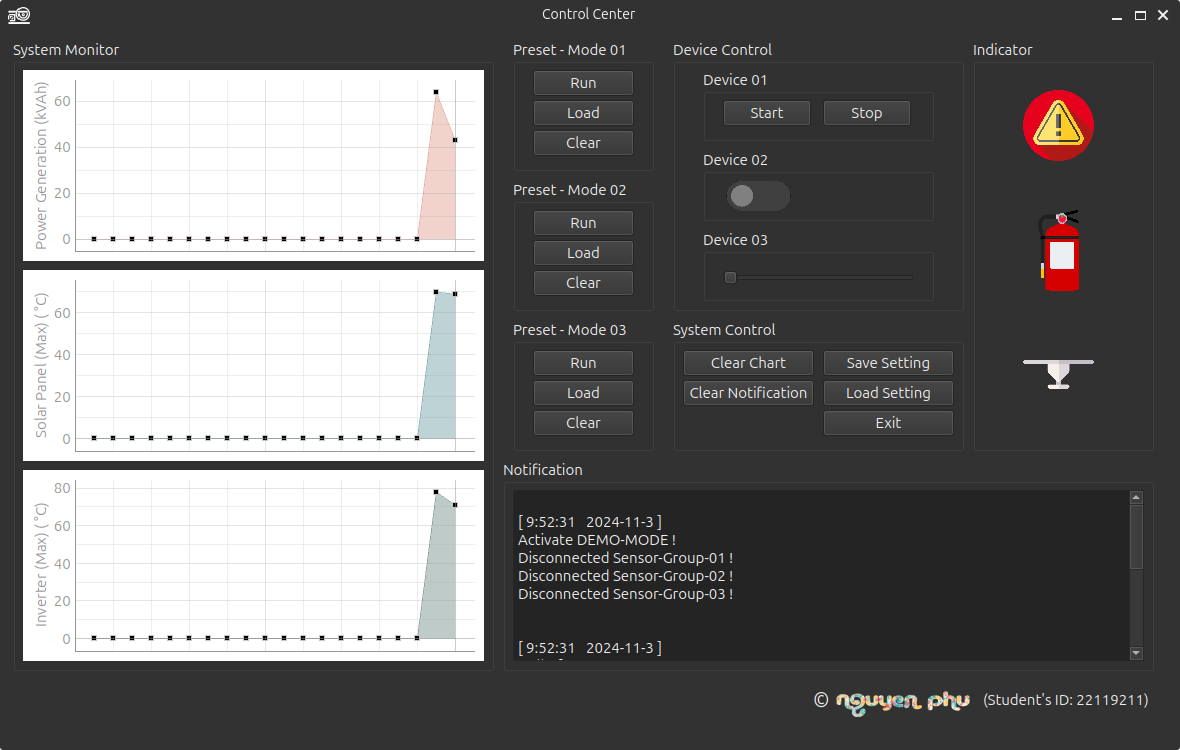
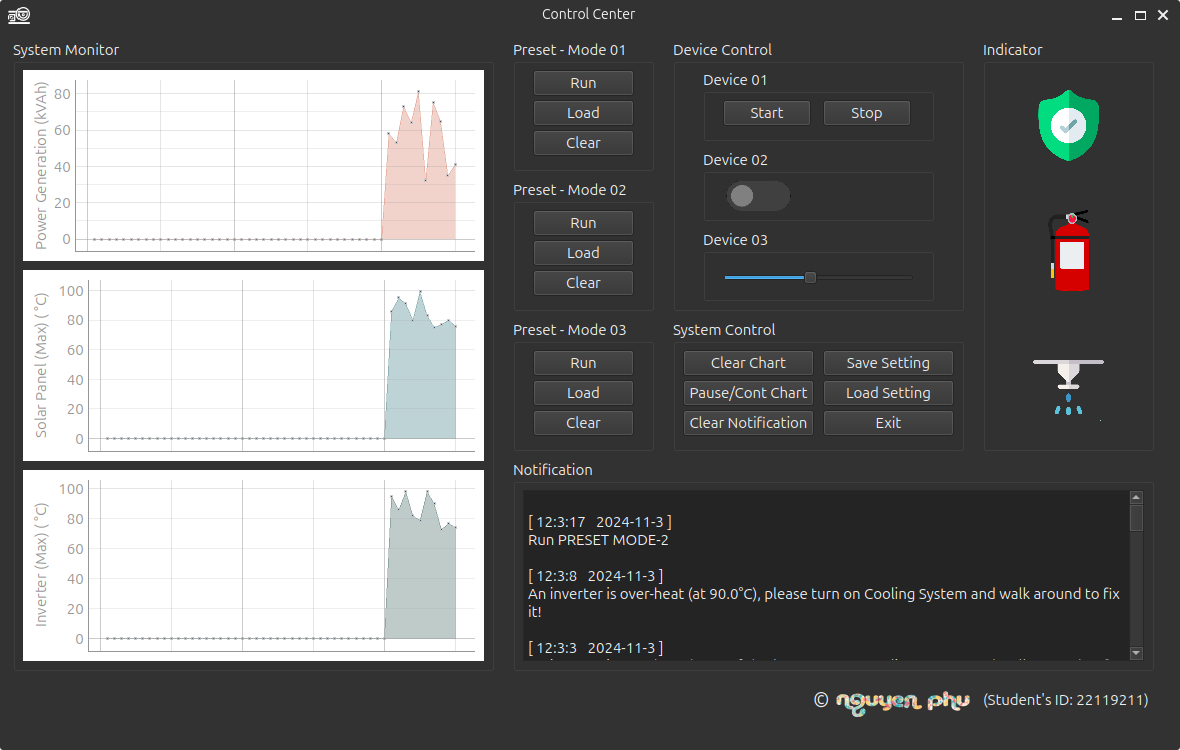
update demo.png + add pause/cont. chart

diff --git a/ControlCenter/resources/components/Ui_ControlCenter.py b/ControlCenter/resources/components/Ui_ControlCenter.py
@@ -29,10 +29,10 @@ class Ui_MainWindow(object):
         self.Clear_3.setGeometry(QtCore.QRect(20, 90, 101, 26))
         self.Clear_3.setObjectName("Clear_3")
         self.Notification_1 = QtWidgets.QGroupBox(parent=MainWindow)
-        self.Notification_1.setGeometry(QtCore.QRect(500, 430, 651, 211))
+        self.Notification_1.setGeometry(QtCore.QRect(510, 430, 641, 211))
         self.Notification_1.setObjectName("Notification_1")
         self.Notification = QtWidgets.QTextBrowser(parent=self.Notification_1)
-        self.Notification.setGeometry(QtCore.QRect(10, 30, 631, 171))
+        self.Notification.setGeometry(QtCore.QRect(10, 30, 621, 171))
         self.Notification.setObjectName("Notification")
         self.MonitorGroup_1 = QtWidgets.QGroupBox(parent=MainWindow)
         self.MonitorGroup_1.setGeometry(QtCore.QRect(10, 10, 481, 631))
@@ -90,7 +90,7 @@ class Ui_MainWindow(object):
         self.Dev3_Slider_1.setOrientation(QtCore.Qt.Orientation.Horizontal)
         self.Dev3_Slider_1.setObjectName("Dev3_Slider_1")
         self.Indicator_1 = QtWidgets.QGroupBox(parent=MainWindow)
-        self.Indicator_1.setGeometry(QtCore.QRect(970, 10, 181, 411))
+        self.Indicator_1.setGeometry(QtCore.QRect(980, 10, 171, 411))
         self.Indicator_1.setObjectName("Indicator_1")
         self.IndicatorDev_1 = QtWidgets.QLabel(parent=self.Indicator_1)
         self.IndicatorDev_1.setGeometry(QtCore.QRect(50, 50, 71, 71))
@@ -116,9 +116,6 @@ class Ui_MainWindow(object):
         self.Save_Setting_1 = QtWidgets.QPushButton(parent=self.SystemControl_1)
         self.Save_Setting_1.setGeometry(QtCore.QRect(150, 30, 131, 26))
         self.Save_Setting_1.setObjectName("Save_Setting_1")
-        self.Clear_Notification_1 = QtWidgets.QPushButton(parent=self.SystemControl_1)
-        self.Clear_Notification_1.setGeometry(QtCore.QRect(10, 60, 131, 26))
-        self.Clear_Notification_1.setObjectName("Clear_Notification_1")
         self.Load_Setting_1 = QtWidgets.QPushButton(parent=self.SystemControl_1)
         self.Load_Setting_1.setGeometry(QtCore.QRect(150, 60, 131, 26))
         self.Load_Setting_1.setObjectName("Load_Setting_1")
@@ -128,6 +125,12 @@ class Ui_MainWindow(object):
         self.Clear_Chart_2 = QtWidgets.QPushButton(parent=self.SystemControl_1)
         self.Clear_Chart_2.setGeometry(QtCore.QRect(10, 30, 131, 26))
         self.Clear_Chart_2.setObjectName("Clear_Chart_2")
+        self.Pause_Chart_1 = QtWidgets.QPushButton(parent=self.SystemControl_1)
+        self.Pause_Chart_1.setGeometry(QtCore.QRect(10, 60, 131, 26))
+        self.Pause_Chart_1.setObjectName("Pause_Chart_1")
+        self.Clear_Notification_1 = QtWidgets.QPushButton(parent=self.SystemControl_1)
+        self.Clear_Notification_1.setGeometry(QtCore.QRect(10, 90, 131, 26))
+        self.Clear_Notification_1.setObjectName("Clear_Notification_1")
         self.PresetMode_2 = QtWidgets.QGroupBox(parent=MainWindow)
         self.PresetMode_2.setGeometry(QtCore.QRect(510, 150, 141, 131))
         self.PresetMode_2.setObjectName("PresetMode_2")
@@ -179,10 +182,11 @@ class Ui_MainWindow(object):
         self.Indicator_1.setTitle(_translate("MainWindow", "Indicator"))
         self.SystemControl_1.setTitle(_translate("MainWindow", "System Control"))
         self.Save_Setting_1.setText(_translate("MainWindow", "Save Setting"))
-        self.Clear_Notification_1.setText(_translate("MainWindow", "Clear Notification"))
         self.Load_Setting_1.setText(_translate("MainWindow", "Load Setting"))
         self.Exit_1.setText(_translate("MainWindow", "Exit"))
         self.Clear_Chart_2.setText(_translate("MainWindow", "Clear Chart"))
+        self.Pause_Chart_1.setText(_translate("MainWindow", "Pause/Cont Chart"))
+        self.Clear_Notification_1.setText(_translate("MainWindow", "Clear Notification"))
         self.PresetMode_2.setTitle(_translate("MainWindow", "Preset - Mode 02"))
         self.Run_2.setText(_translate("MainWindow", "Run"))
         self.Load_2.setText(_translate("MainWindow", "Load"))

diff --git a/ControlCenter/ControlCenter.py b/ControlCenter/ControlCenter.py
@@ -22,7 +22,8 @@ class ControlCenter(QMainWindow):
         self.ui = Ui_MainWindow()
         self.ui.setupUi(self)
         # Global variables
-        self.Notification_Buffer_Size=10000 #Chars
+        self.Pause_Chart=0
+        self.Notification_Buffer_Size=100000 #Chars
         self.Chart_Update="PAUSE"
         self.Preset_Mode_1={"Dev1":"ON", "Dev2":"OFF", "Dev3":"HALF"}
         self.Preset_Mode_2={"Dev1":"ON", "Dev2":"ON", "Dev3":"FULL"}
@@ -31,7 +32,7 @@ class ControlCenter(QMainWindow):
         self.Dev1_Ctl=0 # only 1 or 0
         self.Dev2_Ctl=0 # only 1 or 0
         self.Dev3_Ctl=0 # in range [0->100]
-        self.Chart_Len=20
+        self.Chart_Len=50
         self.Chart_XAxis_Data=range(1, self.Chart_Len+1)
         self.Chart_Data_1=np.zeros(self.Chart_Len)
         self.Chart_Data_2=np.zeros(self.Chart_Len)
@@ -72,6 +73,7 @@ class ControlCenter(QMainWindow):
         self.ui.Load_3.clicked.connect(self.Reserve_Features)
         self.ui.Save_Setting_1.clicked.connect(self.Reserve_Features)
         self.ui.Load_Setting_1.clicked.connect(self.Reserve_Features)
+        self.ui.Pause_Chart_1.clicked.connect(self.Toggle_Pause_Chart_State)
         #Update chart
         self.Start_Chart()
         # Hello 
@@ -88,7 +90,7 @@ class ControlCenter(QMainWindow):
             if Color is not None:
                 pen = pg.mkPen(color=Color)
                 plot.plot(self.Chart_XAxis_Data, YValues, pen=pen, 
-                            symbol="s", symbolSize=5, symbolBrush='k',
+                            symbol="s", symbolSize=2, symbolBrush=(56, 75, 112),
                             fillLevel=-0.3, brush=Color)
             else:
                 plot.plot(self.Chart_XAxis_Data, YValues)
@@ -265,6 +267,17 @@ class ControlCenter(QMainWindow):
 
     def Set_overheat_warning_chart_3(self):
         self.New_Notification(f"An inverter is over-heat (at {self.Chart_Data_3[-1]}°C), please turn on Cooling System and walk around to fix it!")
+
+    def Toggle_Pause_Chart_State(self):
+        if self.Pause_Chart == 1:
+            self.New_Notification("Continue Updating All Charts!")
+            self.Pause_Chart = 0
+            self.Load_Chart_1()
+            self.Load_Chart_2()
+            self.Load_Chart_3()
+        else:
+            self.New_Notification("Pause Updating All Charts!")
+            self.Pause_Chart = 1
 
     def Reserve_Features(self):
         self.New_Notification("Reserve feature!")

diff --git a/ControlCenter/resources/components/support_functions.py b/ControlCenter/resources/components/support_functions.py
@@ -22,19 +22,22 @@ class UpdateSensor_ClassWorker(QObject):
         data = np.append(self.myapp.Chart_Data_1[1:], randint(30, 82)*1000)
         self.myapp.Chart_Data_1 = data
         #------------------------------------#
-        self.update_chart_1.emit()
+        if self.myapp.Pause_Chart == 0:
+            self.update_chart_1.emit()
 
     def Update_Sensor_2(self):
         data = randint(68, 100)
         self.myapp.Chart_Data_2 = np.append(self.myapp.Chart_Data_2[1:], data)
         #------------------------------------#
-        self.update_chart_2.emit()
+        if self.myapp.Pause_Chart == 0:
+            self.update_chart_2.emit()
 
     def Update_Sensor_3(self):
         data = randint(68, 100)
         self.myapp.Chart_Data_3 = np.append(self.myapp.Chart_Data_3[1:], data)
         #------------------------------------#
-        self.update_chart_3.emit()
+        if self.myapp.Pause_Chart == 0:
+            self.update_chart_3.emit()
 
 
     def UpdateData(self):
@@ -42,9 +45,10 @@ class UpdateSensor_ClassWorker(QObject):
             self.Update_Sensor_1()
             self.Update_Sensor_2()
             self.Update_Sensor_3()
-            if self.myapp.Chart_Data_2[-1] > 85:
-                self.overheat_warning_chart_2.emit()
-            if self.myapp.Chart_Data_3[-1] > 85:
-                self.overheat_warning_chart_3.emit()
+            if self.myapp.Pause_Chart == 0:
+                if self.myapp.Chart_Data_2[-1] > 85:
+                    self.overheat_warning_chart_2.emit()
+                if self.myapp.Chart_Data_3[-1] > 85:
+                    self.overheat_warning_chart_3.emit()
             time.sleep(5)
         self.finished.emit()
